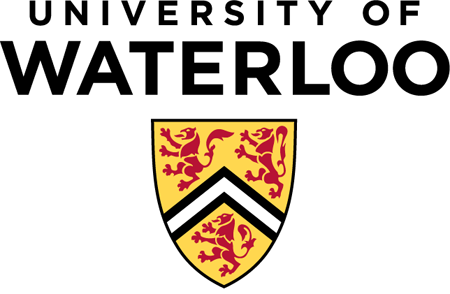
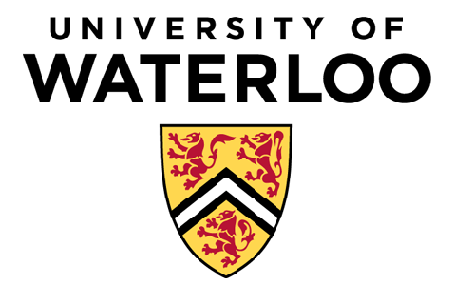
image fix

Changed region(s): [[0.0, 0.0, 1.0, 0.3673], [0.3111, 0.398, 0.6844, 0.9796]]

diff --git a/index.html b/index.html
@@ -137,7 +137,7 @@
         <div class="row">
             <div class="project shadow-large" >
             <div class="project-image">
-                <img src="images/waterloo.png" height="200px" />
+                <img src="images/waterloo.png" height="200px" width="300px" />
             </div>
             <div class="project-info">
                 <h3>University of Waterloo</h3>
